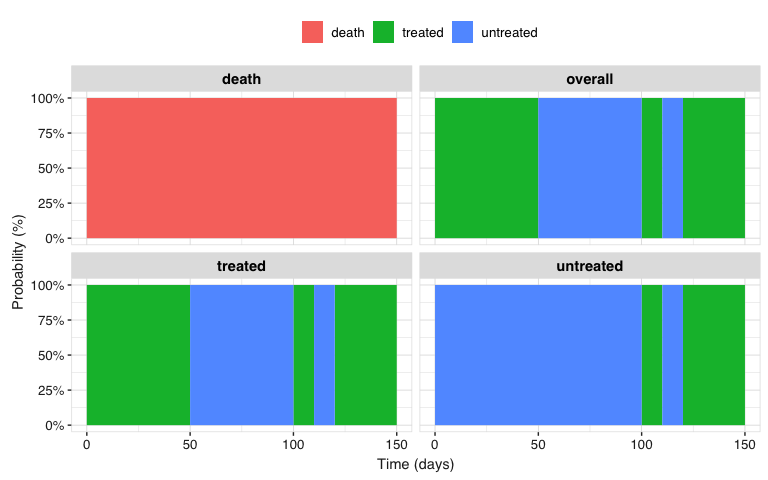
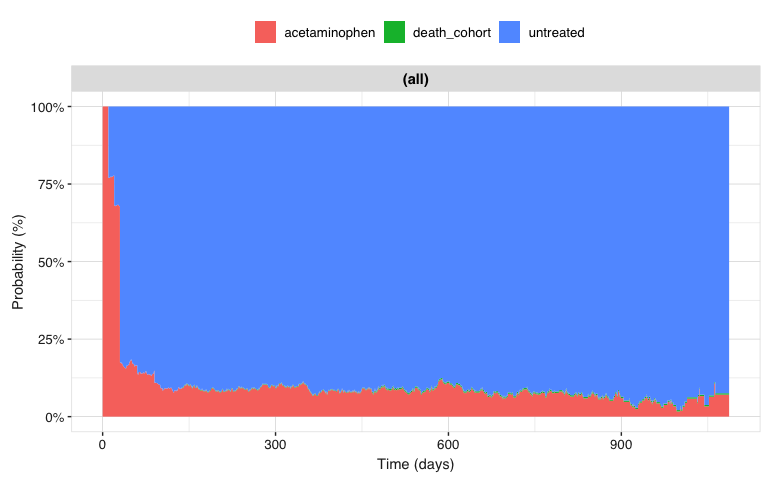
update readme

diff --git a/README.md b/README.md
@@ -59,77 +59,139 @@ states: `treated`, `untreated`, and the absorbing state `death`.
 
 ``` r
 library(OmopMultistate)
+library(omock)
 
-cdm <- omock::mockCdmFromTables(
-  tables = list(
-    cohort = dplyr::tibble(
-      cohort_definition_id = c(1L, 1L, 1L, 2L, 2L, 3L),
-      subject_id = 1L,
-      cohort_start_date = as.Date("2020-01-01") +
-        c(0L, 100L, 120L, 50L, 110L, 150L),
-      cohort_end_date = cohort_start_date
-    )
-  )
-)
-
-cdm$cohort <- CohortConstructor::renameCohort(
-  cohort = cdm$cohort,
-  newCohortName = c("treated", "untreated", "death")
-)
+cdm <- mockCdmFromDataset(datasetName = "synpuf-1k", source = "duckdb")
 ```
 
-Define the allowed transitions. Here, individuals can move between
-treatment states or from either treatment state to death; no transitions
-out of death are allowed.
+First we will do the simplest possible case, we analyse discontinuation
+of **acetaminophen**. So we will create 3 cohorts: acetaminophen,
+discontinuation of acetaminophen (untreated) and death. We will use
+[CohortConstructor]() to create the cohorts.
+
+``` r
+library(CohortConstructor)
+#> Warning: package 'CohortConstructor' was built under R version 4.4.3
+library(CodelistGenerator)
+#> Warning: package 'CodelistGenerator' was built under R version 4.4.3
+
+codes <- getDrugIngredientCodes(cdm = cdm, name = "acetaminophen", nameStyle = "{concept_name}")
+
+# acetaminophen cohort
+cdm$acetaminophen <- conceptCohort(cdm = cdm, conceptSet = codes, name = "acetaminophen")
+#> ℹ Subsetting table drug_exposure using 6620 concepts with domain: drug.
+#> ℹ Combining tables.
+#> ℹ Creating cohort attributes.
+#> ℹ Applying cohort requirements.
+#> ℹ Merging overlapping records.
+#> ✔ Cohort acetaminophen created.
+
+# death cohort
+cdm$death_cohort <- deathCohort(cdm = cdm, name = "death_cohort")
+#> ℹ Applying cohort requirements.
+#> ✔ Cohort death_cohort created.
+
+# untreated cohort
+cdm$untreated <- cdm$acetaminophen |>
+  padCohortEnd(days = 1L, name = "untreated") |>
+  padCohortDate(days = 0L, indexDate = "cohort_end_date", cohortDate = "cohort_start_date") |>
+  renameCohort("untreated")
+
+# bind them together
+cdm <- bind(cdm$acetaminophen, cdm$death_cohort, cdm$untreated, name = "my_study")
+```
+
+Now we will focus on defining the transitions, the individuals can move
+from:
+
+- `acetaminophen` to `untreated`
+- `acetaminophen` to `death_cohort`
+- `untreated` to `acetaminophen`
+- `untreated` to `death_cohort`
 
 ``` r
 trans <- transMat(
   x = list(c(2, 3), c(1, 3), c()),
-  names = c("treated", "untreated", "death")
+  names = c("acetaminophen", "untreated", "death_cohort")
 )
 
 trans
-#>            to
-#> from        treated untreated death
-#>   treated        NA         1     2
-#>   untreated       3        NA     4
-#>   death          NA        NA    NA
+#>                to
+#> from            acetaminophen untreated death_cohort
+#>   acetaminophen            NA         1            2
+#>   untreated                 3        NA            4
+#>   death_cohort             NA        NA           NA
 ```
 
-Estimate state occupation probabilities over the observed follow-up:
+You can fit prepare the data in long format (same than [mstate]()) so
+latter you can fit any other model:
 
 ``` r
-result <- summariseMultistateProbabilities(
-  cohort = cdm$cohort,
-  trans = trans
-)
+msData <- prepareMultistateData(cohort = cdm$my_study, trans = trans)
+#> ℹ 26 records not reached due to `event occurred before start event`.
+#> Warning: There was 1 warning in `dplyr::filter()`.
+#> ℹ In argument: `.data$Tstop == min(.data$Tstop, na.rm = TRUE)`.
+#> Caused by warning in `min()`:
+#> ! no non-missing arguments to min; returning Inf
+#> ℹ 45 records not reached due to `transition not allowed`.
 
+msData |>
+  head(10)
+#> An object of class 'msdata'
+#> 
+#> Data:
+#>    subject_id from to trans Tstart Tstop status     from_name      to_name
+#> 1           2    1  2     1      0    60      1 acetaminophen    untreated
+#> 2           2    1  3     2      0    60      0 acetaminophen death_cohort
+#> 3           6    1  2     1      0    33      1 acetaminophen    untreated
+#> 4           6    1  3     2      0    33      0 acetaminophen death_cohort
+#> 5          16    1  2     1      0    30      1 acetaminophen    untreated
+#> 6          16    1  3     2      0    30      0 acetaminophen death_cohort
+#> 7          32    1  2     1      0    30      1 acetaminophen    untreated
+#> 8          32    1  3     2      0    30      0 acetaminophen death_cohort
+#> 9          40    1  2     1      0    30      1 acetaminophen    untreated
+#> 10         40    1  3     2      0    30      0 acetaminophen death_cohort
+```
+
+If we are interested in summarising the probabilities over time we can
+use the `summariseMultistateProbabilities` function:
+
+``` r
+result <- summariseMultistateProbabilities(cohort = cdm$my_study, trans = trans)
+#> ℹ 26 records not reached due to `event occurred before start event`.
+#> Warning: There was 1 warning in `dplyr::filter()`.
+#> ℹ In argument: `.data$Tstop == min(.data$Tstop, na.rm = TRUE)`.
+#> Caused by warning in `min()`:
+#> ! no non-missing arguments to min; returning Inf
+#> ℹ 45 records not reached due to `transition not allowed`.
+```
+
+``` r
+tidy(result)
+#> # A tibble: 9,384 × 9
+#>    cdm_name  initial_state variable_name      variable_level probability
+#>    <chr>     <chr>         <chr>              <chr>                <dbl>
+#>  1 synpuf-1k overall       prob_acetaminophen 0                    1    
+#>  2 synpuf-1k overall       prob_death_cohort  0                    0    
+#>  3 synpuf-1k overall       prob_untreated     0                    0    
+#>  4 synpuf-1k overall       prob_acetaminophen 10                   0.770
+#>  5 synpuf-1k overall       prob_death_cohort  10                   0    
+#>  6 synpuf-1k overall       prob_untreated     10                   0.230
+#>  7 synpuf-1k overall       prob_acetaminophen 12                   0.772
+#>  8 synpuf-1k overall       prob_death_cohort  12                   0    
+#>  9 synpuf-1k overall       prob_untreated     12                   0.228
+#> 10 synpuf-1k overall       prob_acetaminophen 13                   0.774
+#> # ℹ 9,374 more rows
+#> # ℹ 4 more variables: cohort_table_name <chr>, follow_up_days <chr>,
+#> #   state_hierarchy <chr>, state_step <chr>
+```
+
+You can visualise now the results:
+
+``` r
 result |>
-  omopgenerics::tidy() |>
-  dplyr::select(
-    "initial_state", "variable_name", "variable_level", "probability"
-  ) |>
-  dplyr::slice_head(n = 10)
-#> # A tibble: 10 × 4
-#>    initial_state variable_name  variable_level probability
-#>    <chr>         <chr>          <chr>                <dbl>
-#>  1 overall       prob_death     0                        0
-#>  2 overall       prob_treated   0                        1
-#>  3 overall       prob_untreated 0                        0
-#>  4 overall       prob_death     50                       0
-#>  5 overall       prob_treated   50                       0
-#>  6 overall       prob_untreated 50                       1
-#>  7 overall       prob_death     100                      0
-#>  8 overall       prob_treated   100                      1
-#>  9 overall       prob_untreated 100                      0
-#> 10 overall       prob_death     110                      0
-```
-
-The result can be displayed as stacked state occupation probabilities
-over time:
-
-``` r
-plotMultistateProbabilities(result)
+  filterGroup(initial_state == "acetaminophen") |>
+  plotMultistateProbabilities()
 ```
 
 <img src="man/figures/README-plot-probabilities-1.png" alt="" width="100%" />